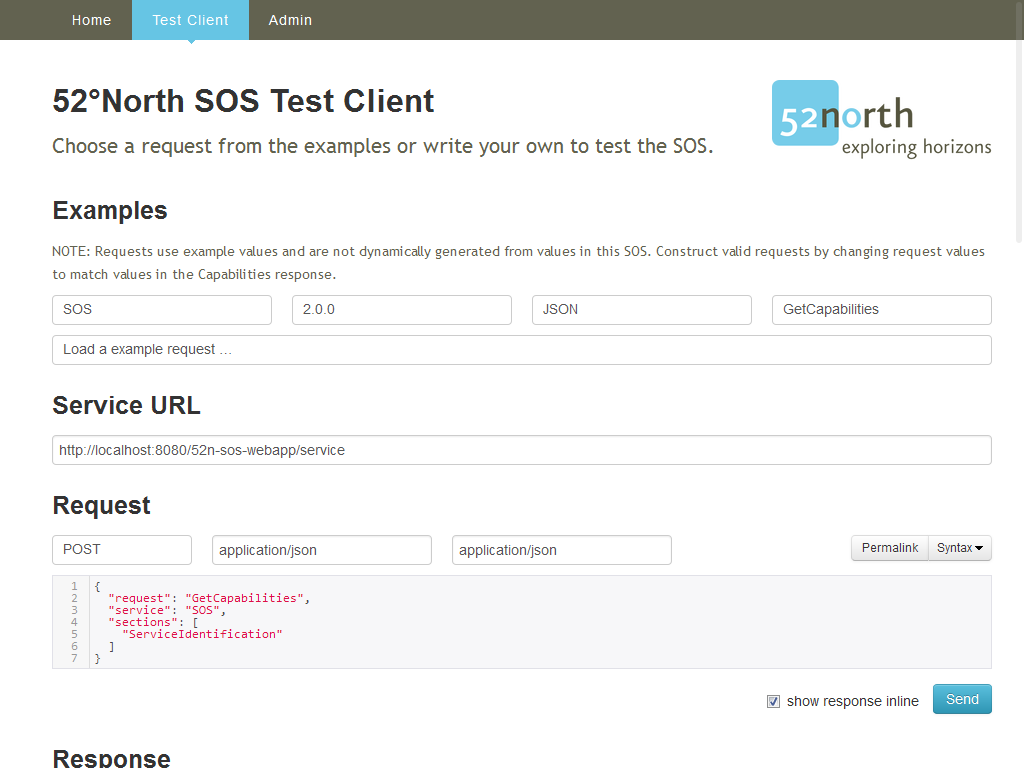
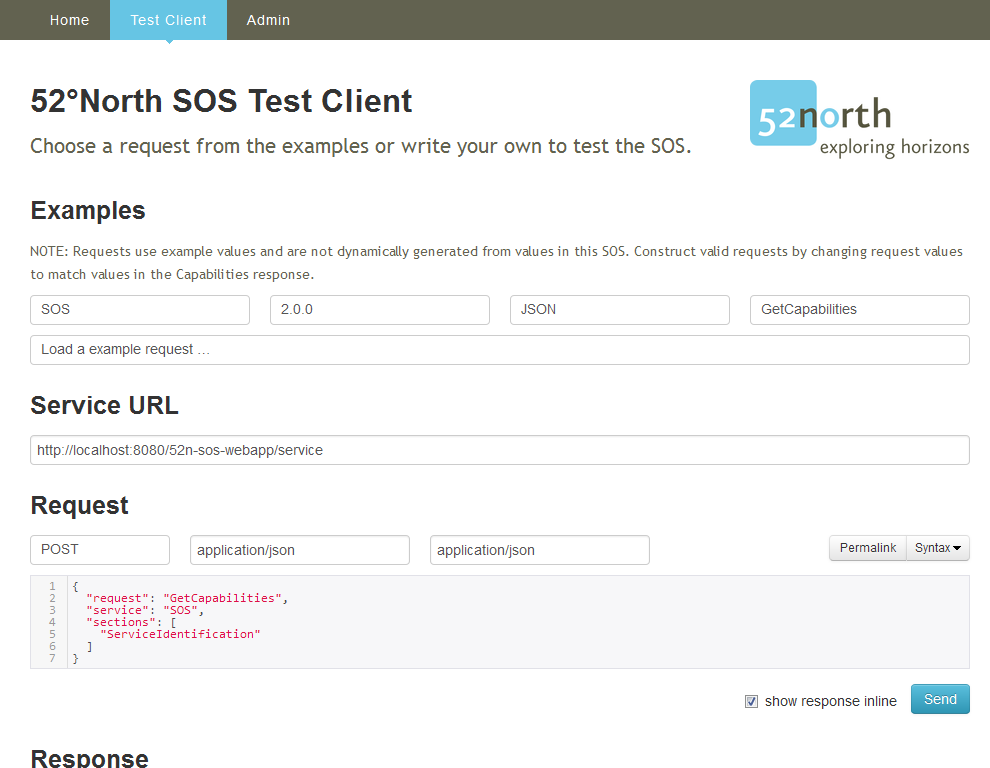
crop, optipng -o5, svn propset, ReST scale
git-svn-id: http://svn.osgeo.org/osgeo/livedvd/gisvm/trunk@11544 7da46fd8-bd2a-0410-a152-cf9810cf5b10

diff --git a/doc/en/quickstart/52nSOS_quickstart.rst b/doc/en/quickstart/52nSOS_quickstart.rst
@@ -30,7 +30,7 @@ Getting Started
 2. This will open the 52°North SOS client welcome page in firefox at http://localhost:8080/52nSOS/.  Open the test client by selecting the version you would like to use, 1.0.0 for example:
 
 .. image:: ../../images/screenshots/1024x768/52n_sos_install_start.png
-  :scale: 100 %
+  :scale: 70 %
   :alt: screenshot of 52°North SOS client welcome page
   :align: center
 
@@ -42,7 +42,7 @@ Getting Started
    2.0 installed.
 
 .. image:: ../../images/screenshots/1024x768/52n_sos_insert_test_data.png
-  :scale: 100 %
+  :scale: 70 %
   :alt: screenshot of 52°North SOS client - test client with batch operation
   :align: center
   
